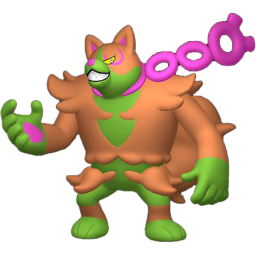
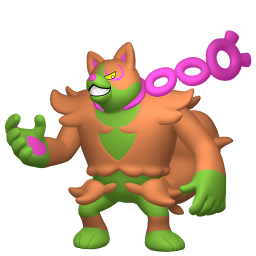
Teal Mask sprite updates
thanks to Bulbagarden

diff --git a/data/changelog.js b/data/changelog.js
@@ -1,6 +1,7 @@
 // don't forget to update index.html cache-version
 const changelog = {
 	"23 September 2023": [
+		"Updated sprites for new Pokémon in The Teal Mask",
 		"Added a checkbox to indicate that you've checked the Pokémon's scale in Mesagoza to hide the Jumbo and Mini Marks from the guide <a href='https://github.com/Azekthi/Ribbons.Guide/issues/67'>#67</a> (thanks Fanriya!)"
 	],
 	"15 September 2023": [

diff --git a/index.html b/index.html
@@ -48,7 +48,7 @@
 		<script src="upup.min.js"></script>
         <script>
             UpUp.start({
-				'cache-version': '2023-09-23-1',
+				'cache-version': '2023-09-23-2',
                 'content-url': 'index.html',
                 'assets': [
                     'css/jquery.modal.min.css', 'css/select2.min.css', 'css/style.css', 'css/themes.css',
